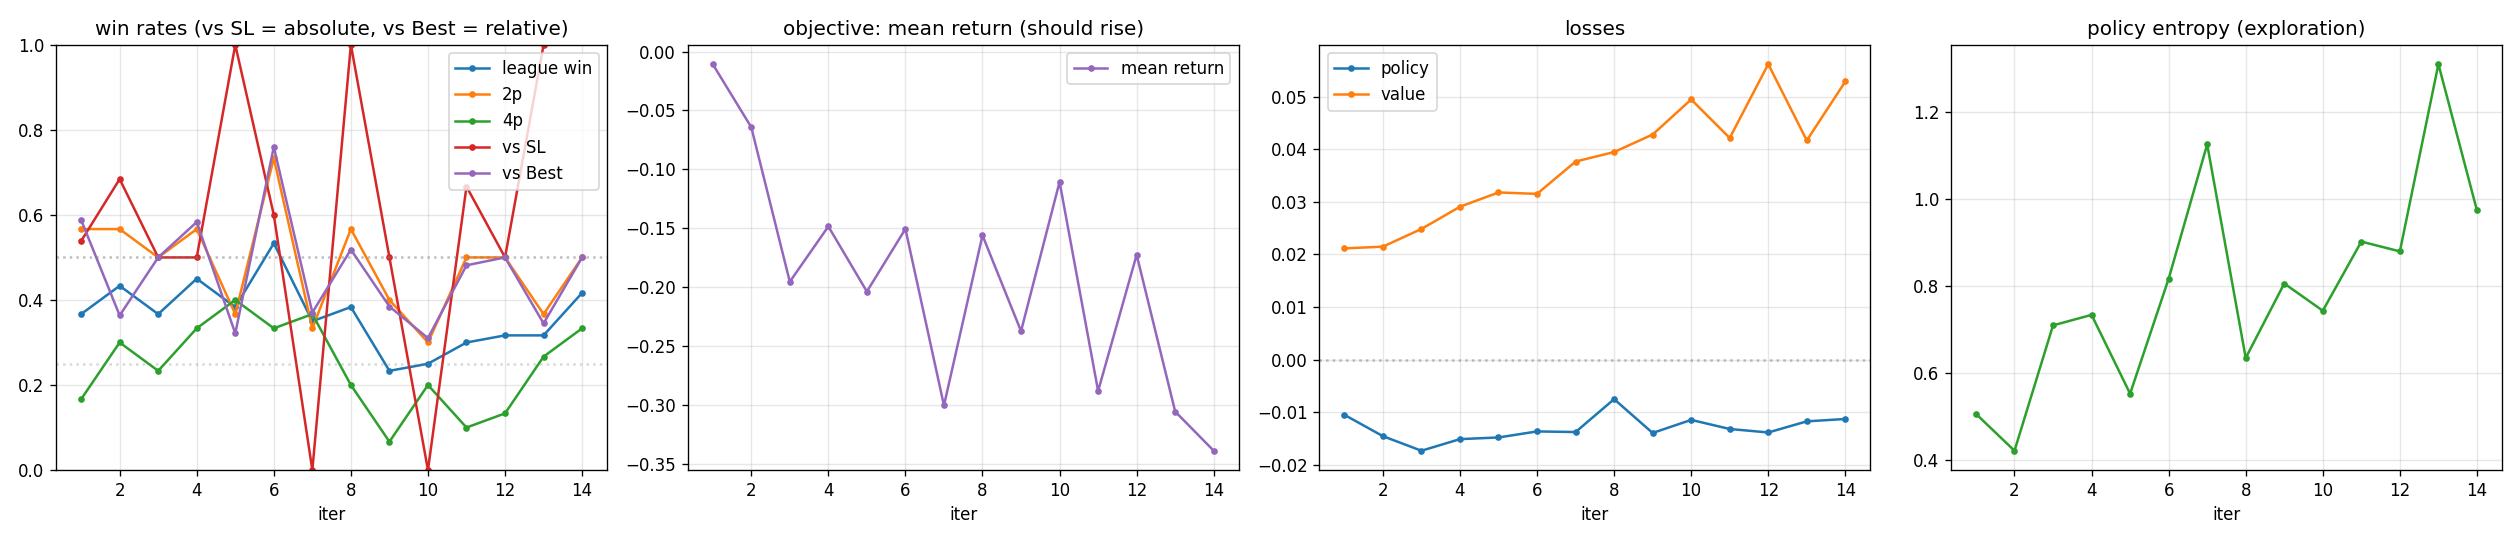
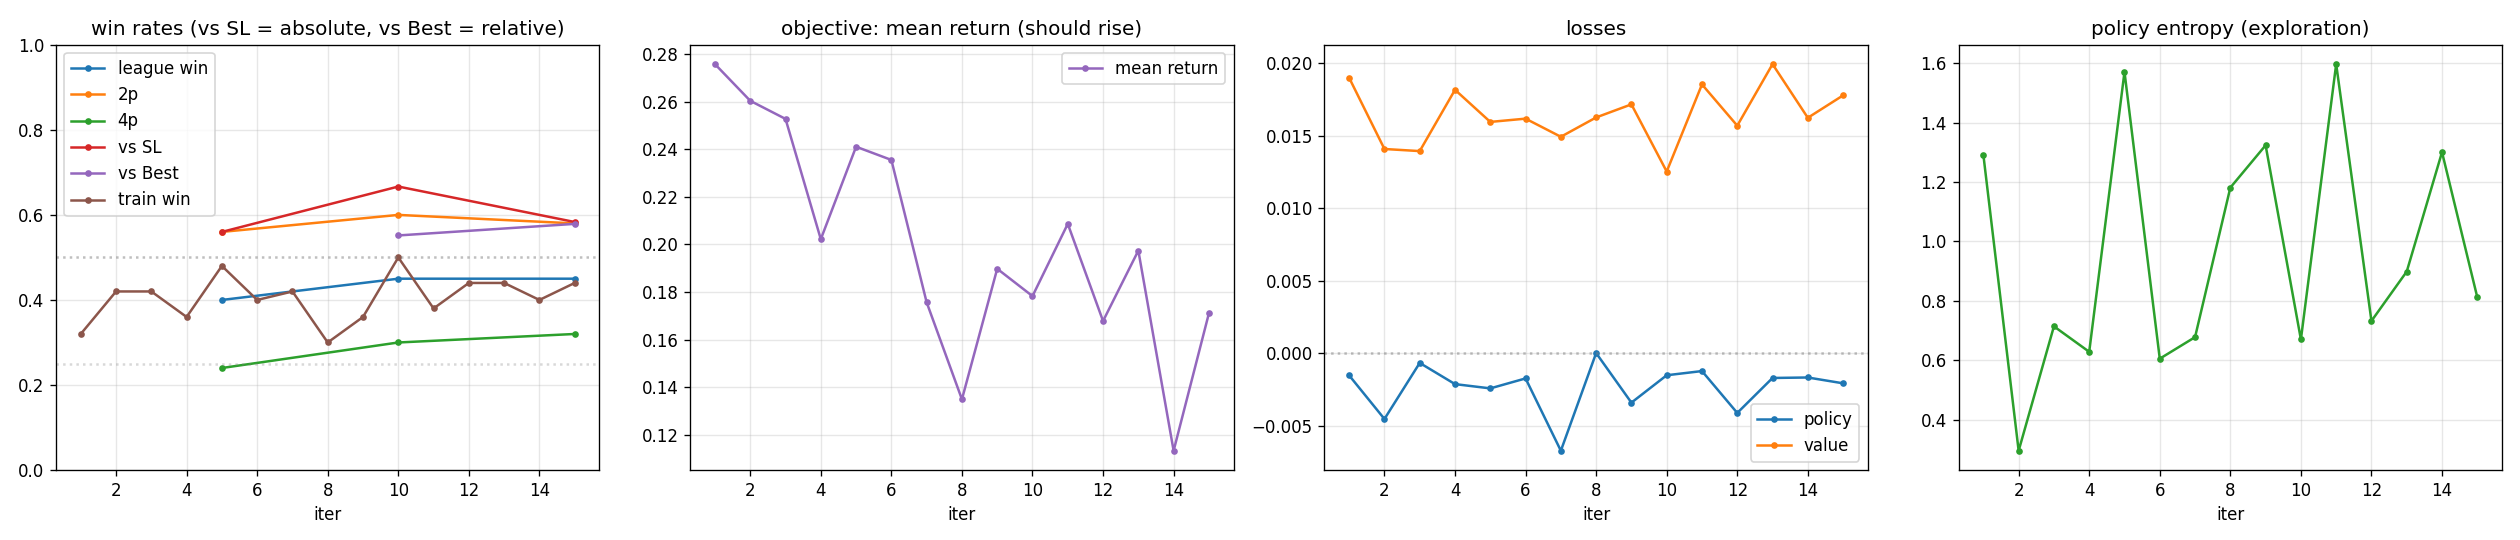
yes

diff --git a/train_rl_v2.py b/train_rl_v2.py
@@ -29,7 +29,7 @@ from physics import decisions_to_moves
 # PPO & RL Hyperparameters
 GAMMA = 1
 GAE_LAMBDA = 0.95
-LR = 1e-5
+LR = 1e-6
 VALUE_COEF = 0.5
 
 # Faster wins are worth more: on a win, add a speed bonus on top of the base +1,
